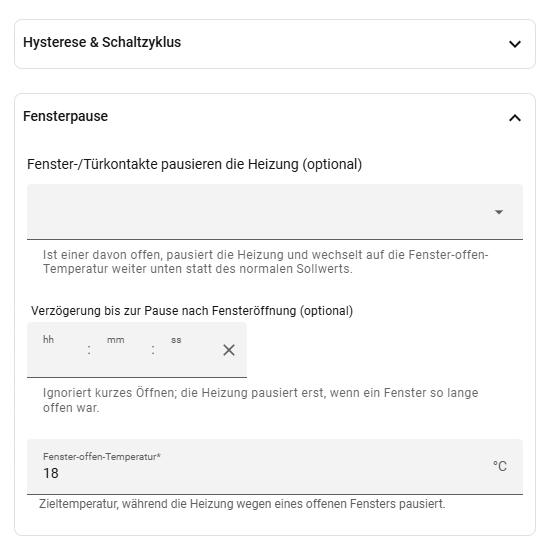
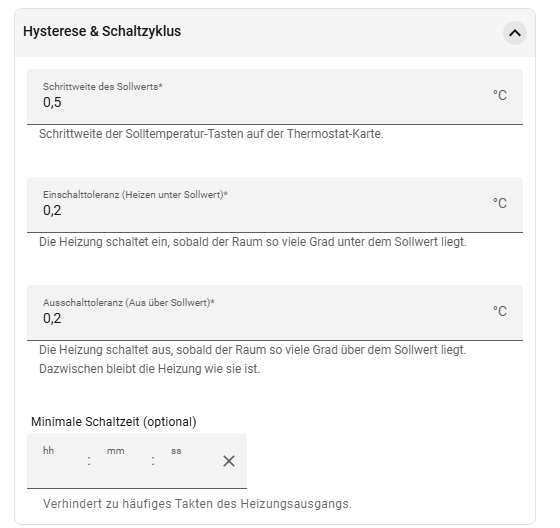
docs: show the hysteresis group expanded and the climate card during a window pause
The setup walkthrough now has separate rows for the hysteresis group
(shown expanded instead of collapsed) and the window pause group, and the
Window contacts section shows the climate card in its "Window open" state.

diff --git a/README.md b/README.md
@@ -151,6 +151,14 @@ introduced in HA 2025.7).
 Setpoint step size, cold/hot tolerance and an optional minimum switch cycle
 duration — see [Hysteresis](#hysteresis).
 
+</td>
+<td valign="top">
+<img src="https://raw.githubusercontent.com/HerrBausW/ha-climate-entity-builder/main/images/add-thermostat-3.png" alt="Add thermostat: hysteresis and switch cycling group, expanded">
+</td>
+</tr>
+<tr>
+<td valign="top">
+
 **Window pause**
 
 Window/door sensors, an optional open delay and the window-open
@@ -158,7 +166,7 @@ temperature — see [Window contacts](#window-contacts).
 
 </td>
 <td valign="top">
-<img src="https://raw.githubusercontent.com/HerrBausW/ha-climate-entity-builder/main/images/add-thermostat-3.png" alt="Add thermostat: hysteresis group (collapsed) and window pause group">
+<img src="https://raw.githubusercontent.com/HerrBausW/ha-climate-entity-builder/main/images/add-thermostat-4.png" alt="Add thermostat: window pause group">
 </td>
 </tr>
 <tr>
@@ -172,7 +180,7 @@ are also available as presets in `heat` mode — see [Modes](#modes).
 
 </td>
 <td valign="top">
-<img src="https://raw.githubusercontent.com/HerrBausW/ha-climate-entity-builder/main/images/add-thermostat-4.png" alt="Add thermostat: schedule, comfort and eco temperature">
+<img src="https://raw.githubusercontent.com/HerrBausW/ha-climate-entity-builder/main/images/add-thermostat-5.png" alt="Add thermostat: schedule, comfort and eco temperature">
 </td>
 </tr>
 <tr>
@@ -186,7 +194,7 @@ forced off, and the plausibility bounds a reading must stay within — see
 
 </td>
 <td valign="top">
-<img src="https://raw.githubusercontent.com/HerrBausW/ha-climate-entity-builder/main/images/add-thermostat-5.png" alt="Add thermostat: failsafe delay and plausibility bounds">
+<img src="https://raw.githubusercontent.com/HerrBausW/ha-climate-entity-builder/main/images/add-thermostat-6.png" alt="Add thermostat: failsafe delay and plausibility bounds">
 </td>
 </tr>
 </table>
@@ -254,6 +262,10 @@ German UI) shows **Window open** in place of the normal comfort/eco/none
 value. It can't be selected manually. Your actual
 setpoint and preset underneath are untouched and reassert themselves the
 moment the window closes — nothing to reset manually.
+
+<p align="center">
+  <img src="https://raw.githubusercontent.com/HerrBausW/ha-climate-entity-builder/main/images/window-open.png" width="360" alt="Climate card while a window is open: the target temperature drops to the window-open temperature and the preset chip shows Window open">
+</p>
 
 ## Custom preset profiles
 
